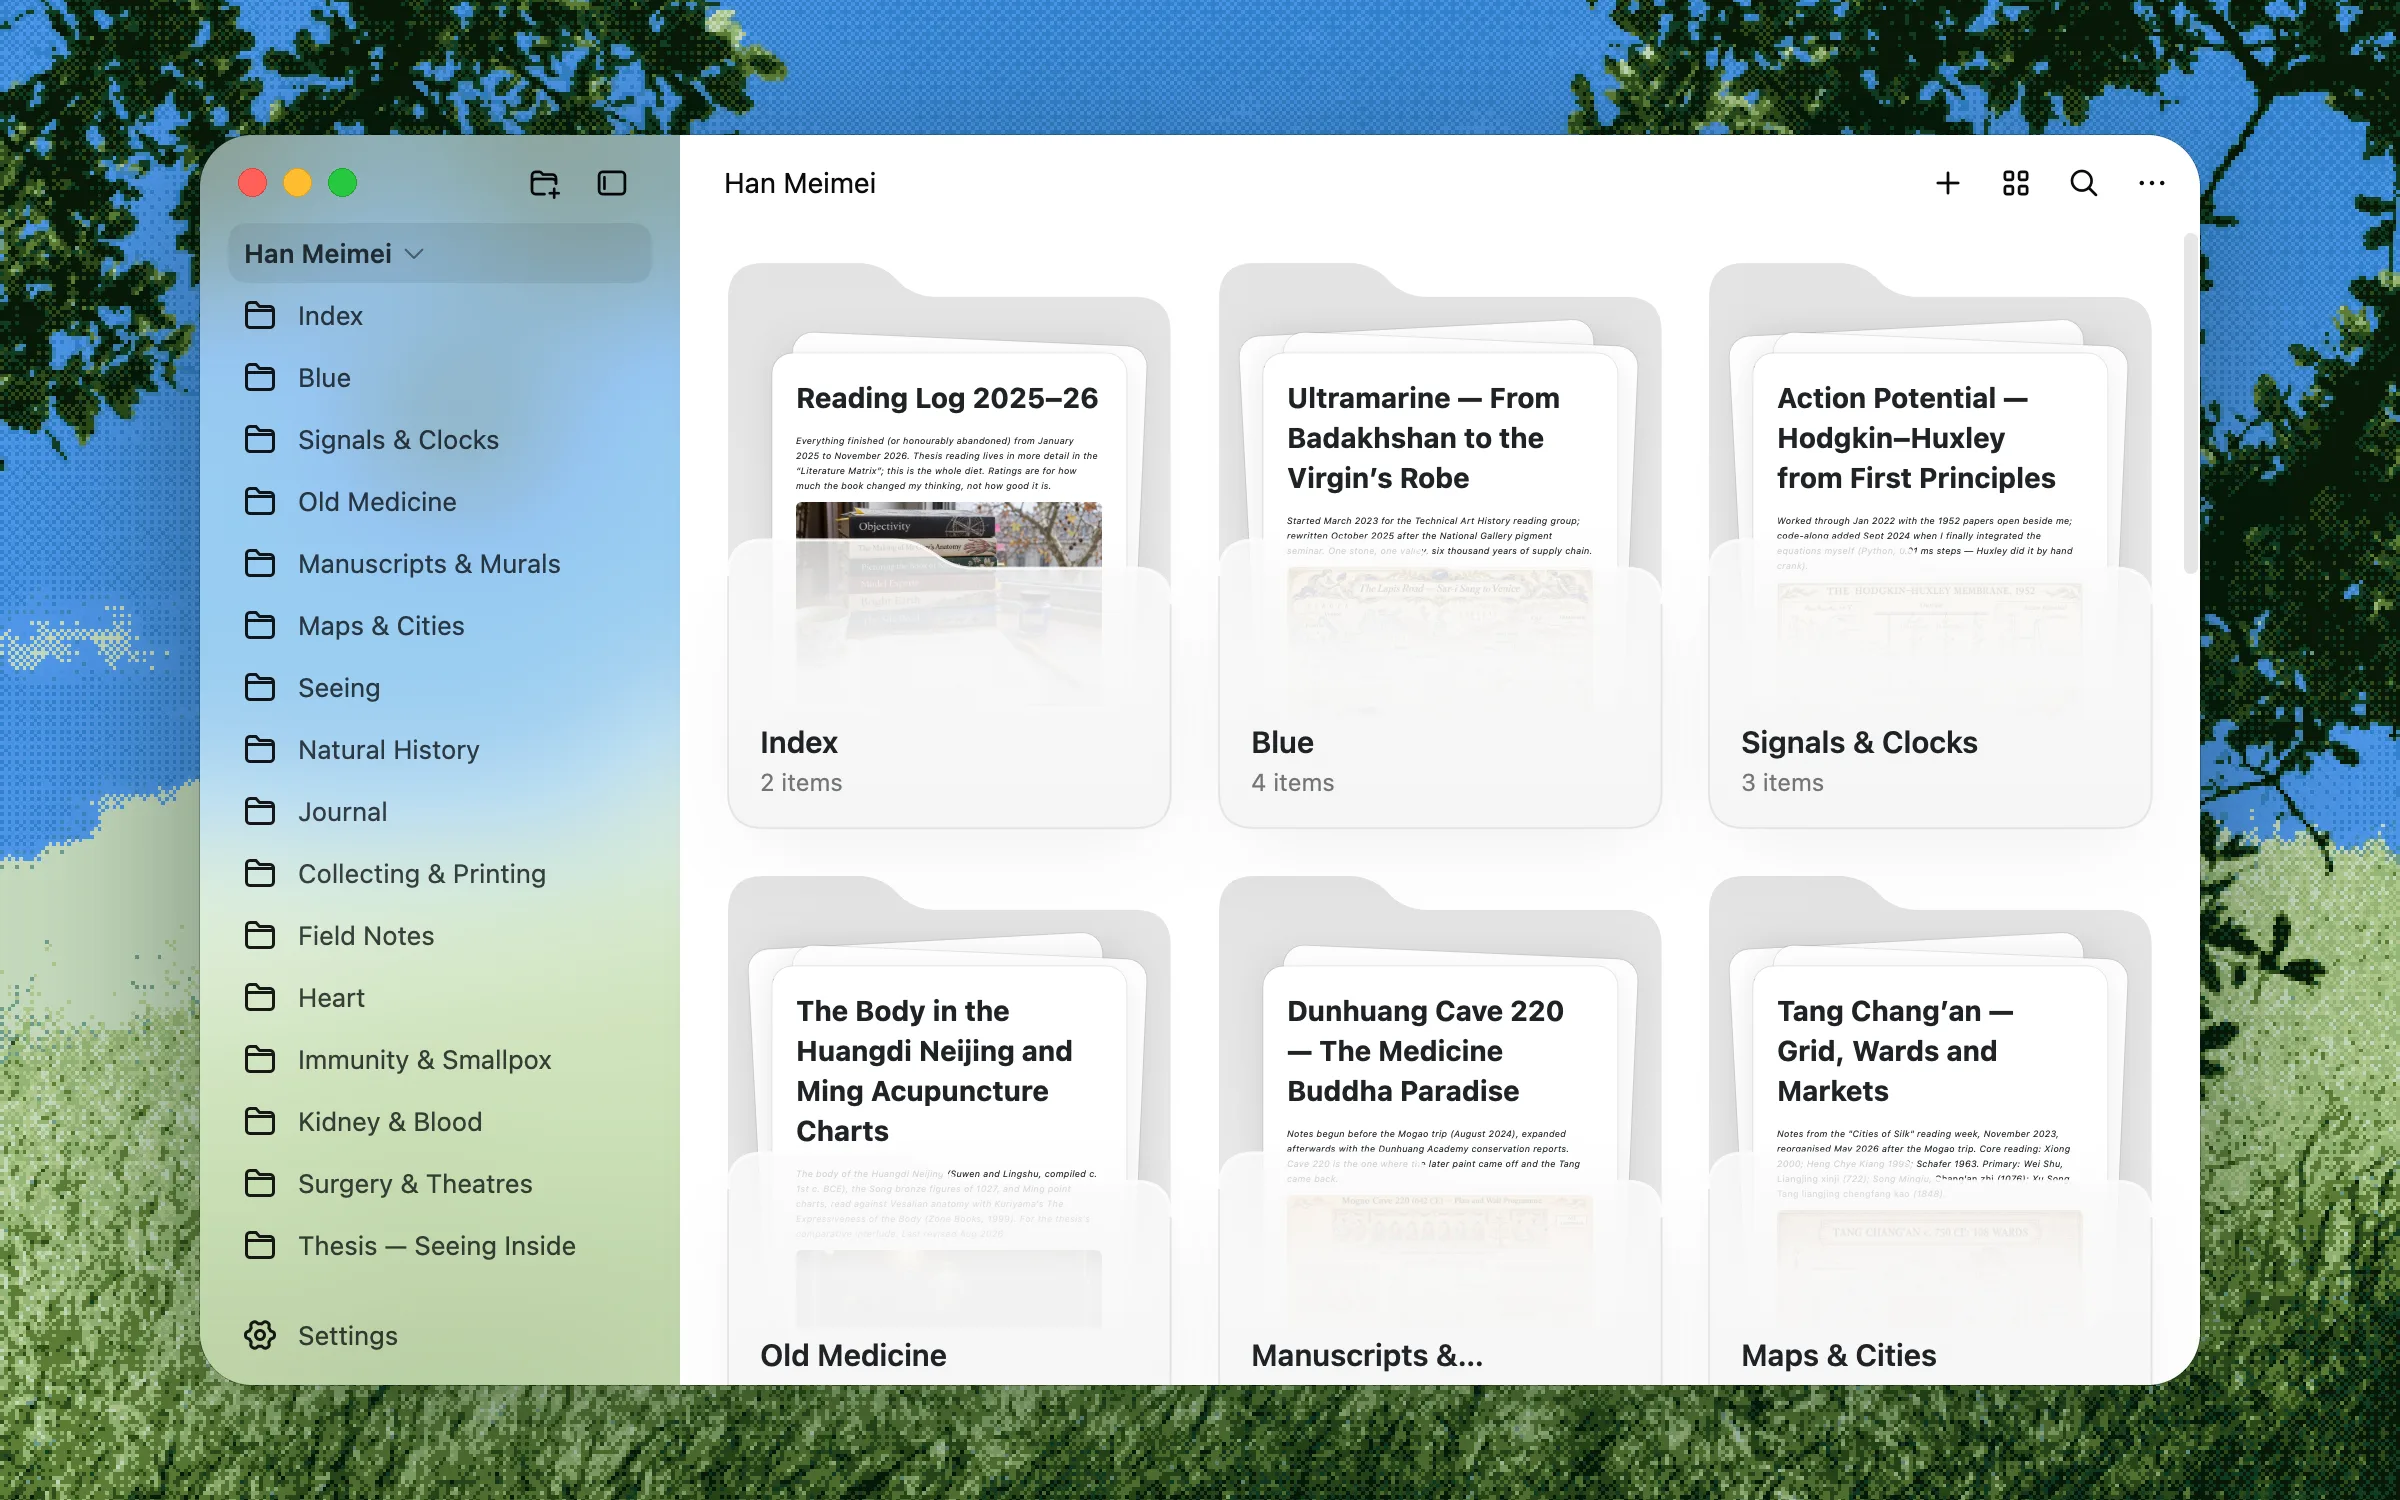
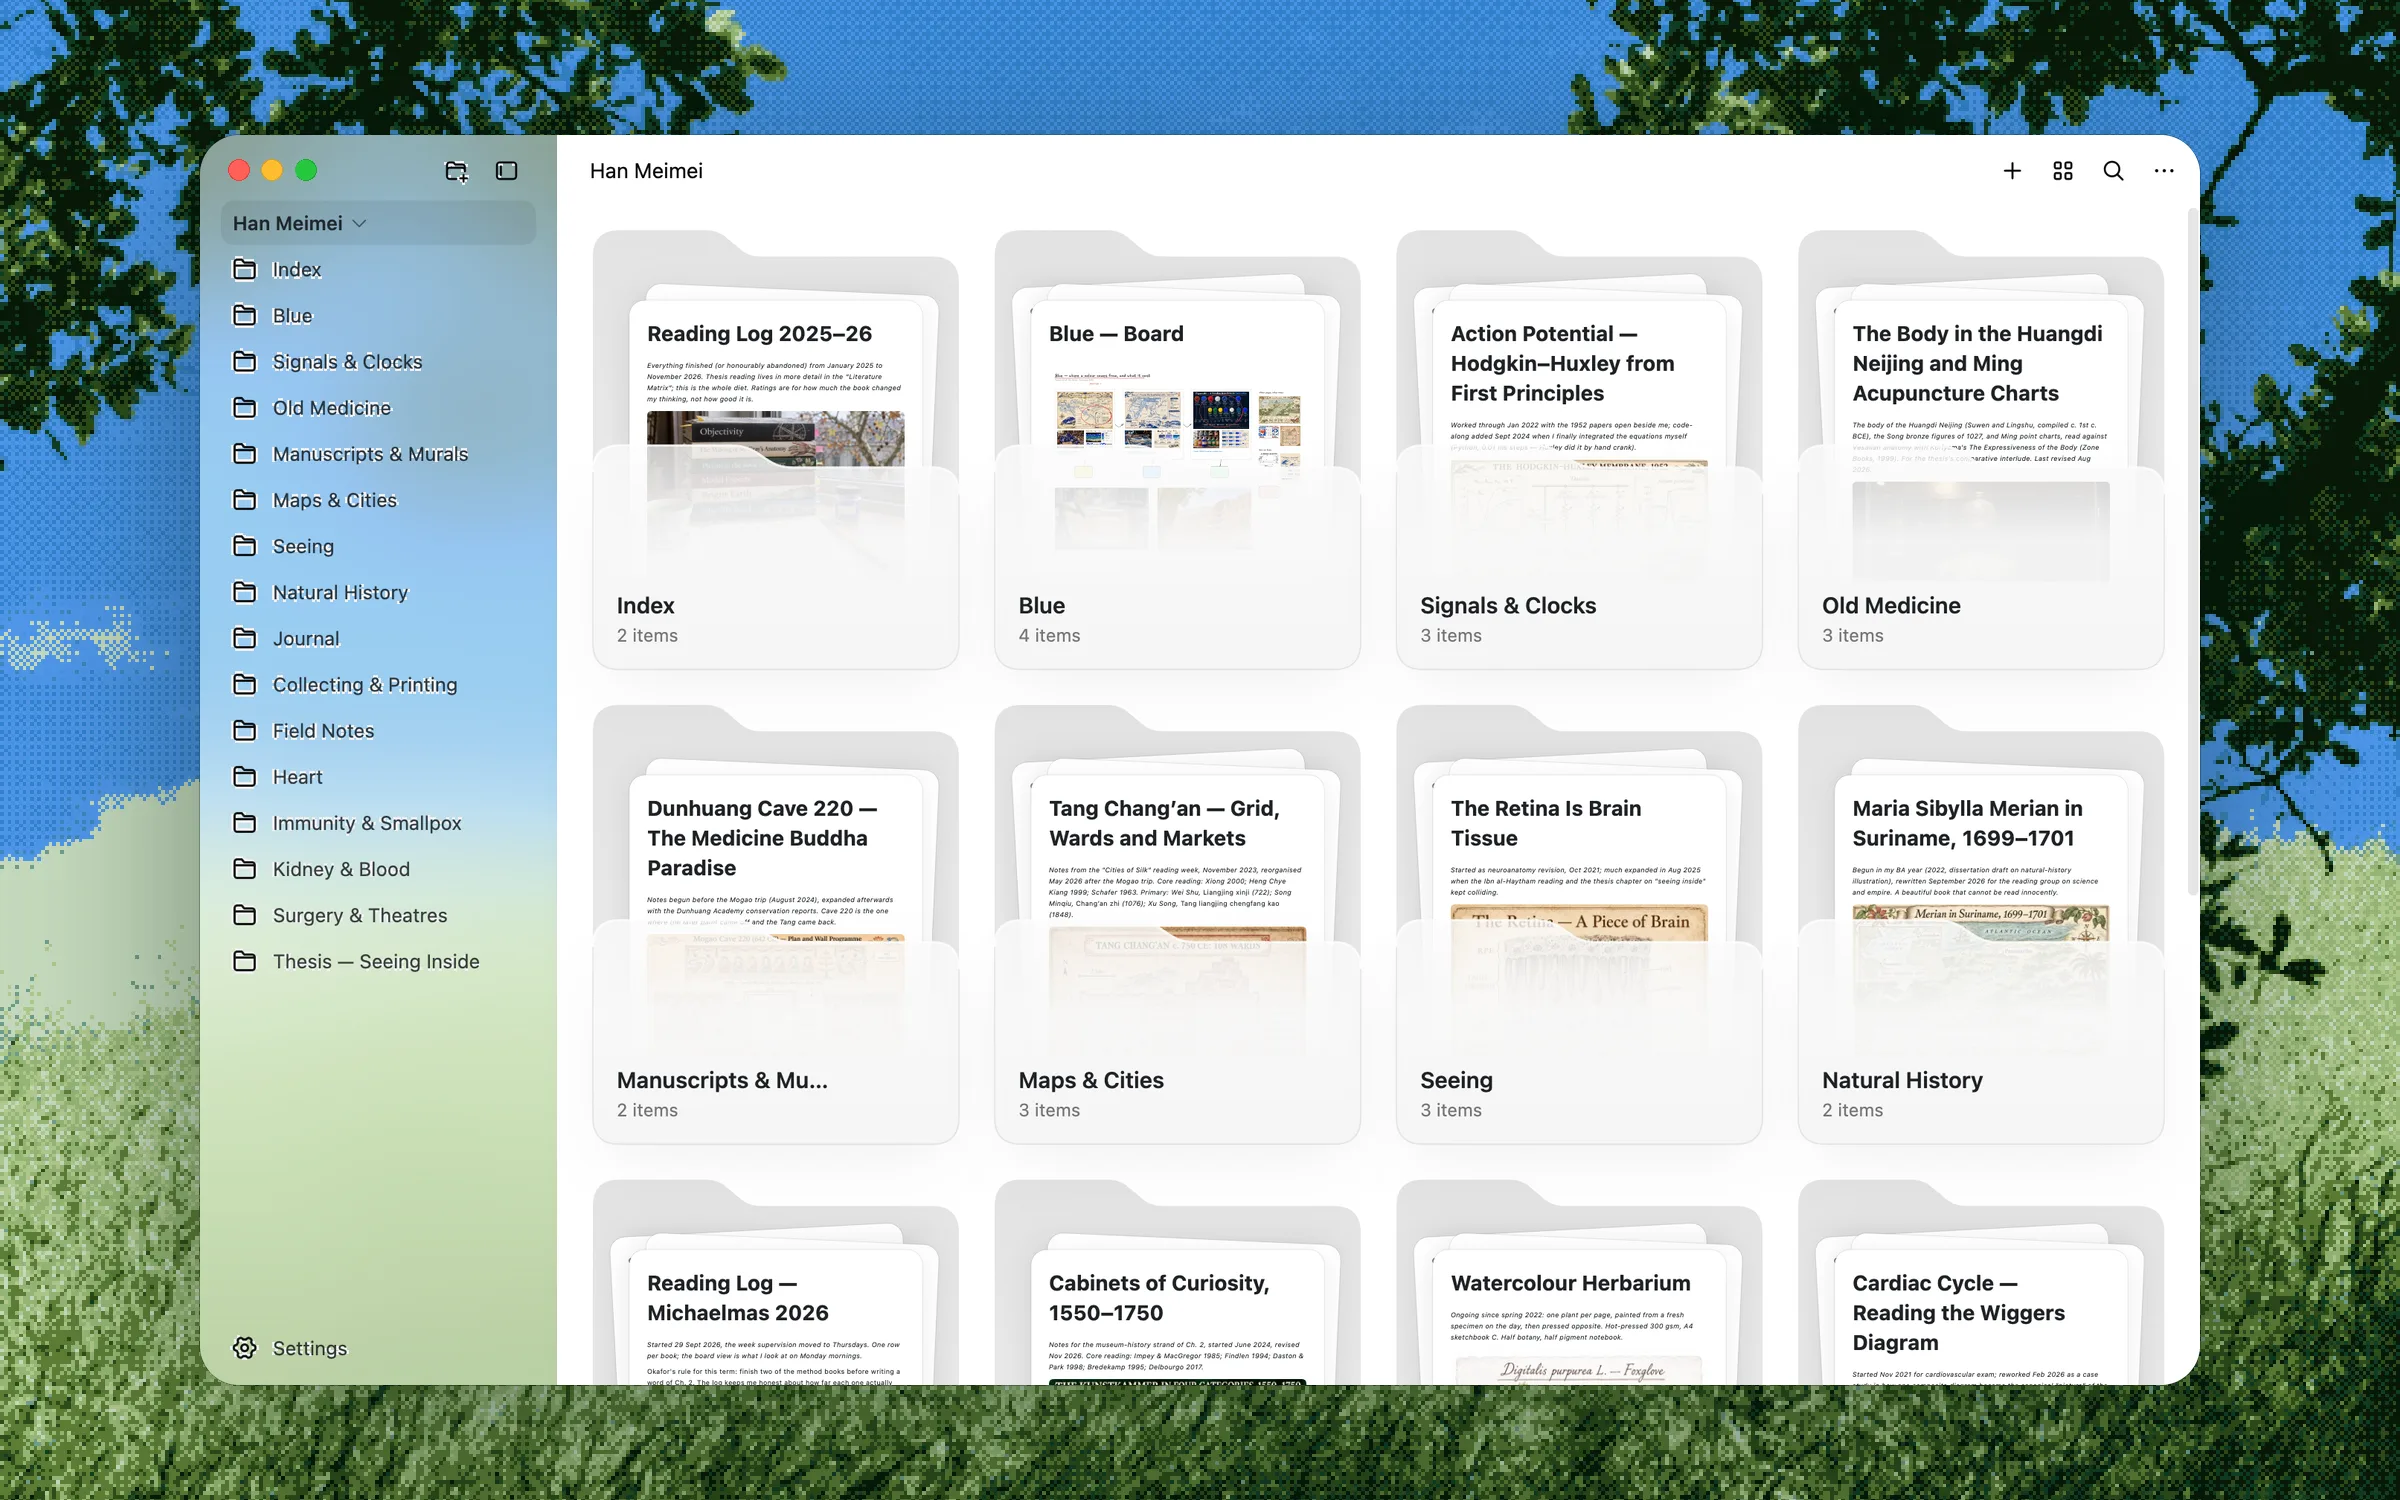
docs: the README's folder page and the guides' home.jpg in four columns
The folder page of Han Meimei's notes is shot at 1344×840 (1104pt beside the
240pt sidebar, four columns of the now equal-height cards) and compose.py's new
--scale shrinks it to the 1000pt frame the long note and board keep, its traffic
lights and corner with it. readme-steps.txt goes back to 1000×625 after that shot.
home.jpg and the guides library's copy of it are the same picture at 1600 wide.

diff --git a/shared-mock/guides/shots/compose.py b/shared-mock/guides/shots/compose.py
@@ -4,7 +4,8 @@ would draw grey traffic lights and a flat grey sidebar: this draws the lights an
 rebuilds the glass from the backdrop (blurred, saturated, brightened, under 55% white,
 multiplied over the sidebar), as marketing's films do.
 usage: /usr/bin/python3 compose.py shot.png out.png [--sidebar PX] [--flat #rrggbb]
-         [--canvas W H] [--at X Y]   (pixels; default 2400×1500 with the window at 200,135)
+         [--canvas W H] [--at X Y] [--scale K]   (pixels; default 2400×1500 with the window at 200,135;
+         --scale shrinks a wider window to the frame the others have, its lights and corner with it)
 Needs Pillow (the system python3 has it)."""
 import argparse, os
 from PIL import Image, ImageDraw, ImageFilter, ImageChops, ImageEnhance
@@ -13,11 +14,14 @@ ap.add_argument('shot'); ap.add_argument('out')
 ap.add_argument('--sidebar', type=int, default=0, help='sidebar width in pixels; 0: no glass')
 ap.add_argument('--flat', help='a plain backdrop colour instead of the meadow')
 ap.add_argument('--canvas', type=int, nargs=2, default=(2400, 1500)); ap.add_argument('--at', type=int, nargs=2, default=(200, 135))
+ap.add_argument('--scale', type=float, default=1, help='resize the shot by this first; --sidebar is after it')
 ap.add_argument('--no-lights', action='store_true', help='the shot has no title bar')
 a = ap.parse_args()
 repo = os.path.join(os.path.dirname(os.path.abspath(__file__)), '..', '..', '..')
 (W, H), (X, Y), R = a.canvas, a.at, 52  # R: macOS 26's window corner, 26pt
-win = Image.open(a.shot).convert('RGB'); ww, wh = win.size
+win = Image.open(a.shot).convert('RGB'); s = a.scale
+if s != 1: win = win.resize((round(win.width * s), round(win.height * s)), Image.LANCZOS)
+ww, wh = win.size; R = round(R * s)
 if a.flat:
     canvas = Image.new('RGB', (W, H), a.flat)
 else:  # the meadow keeps its pixels: nearest-neighbour, cover, centred
@@ -36,7 +40,7 @@ if a.sidebar:
 if not a.no_lights:  # 14pt lights, 22.5pt apart, centred 23.5pt down
     d = ImageDraw.Draw(win)
     for cx, fill, edge in ((52, '#ff5f57', '#e0443e'), (97, '#febc2e', '#dea123'), (142, '#28c840', '#1aab29')):
-        d.ellipse((cx - 14, 33, cx + 14, 61), fill=edge); d.ellipse((cx - 13, 34, cx + 13, 60), fill=fill)
+        d.ellipse(tuple(v * s for v in (cx - 14, 33, cx + 14, 61)), fill=edge); d.ellipse(tuple(v * s for v in (cx - 13, 34, cx + 13, 60)), fill=fill)
 mask = Image.new('L', (ww * 4, wh * 4), 0); ImageDraw.Draw(mask).rounded_rectangle((0, 0, ww * 4 - 1, wh * 4 - 1), R * 4, fill=255)
 mask = mask.resize((ww, wh), Image.LANCZOS)
 shadow = Image.new('L', (W, H), 0)
